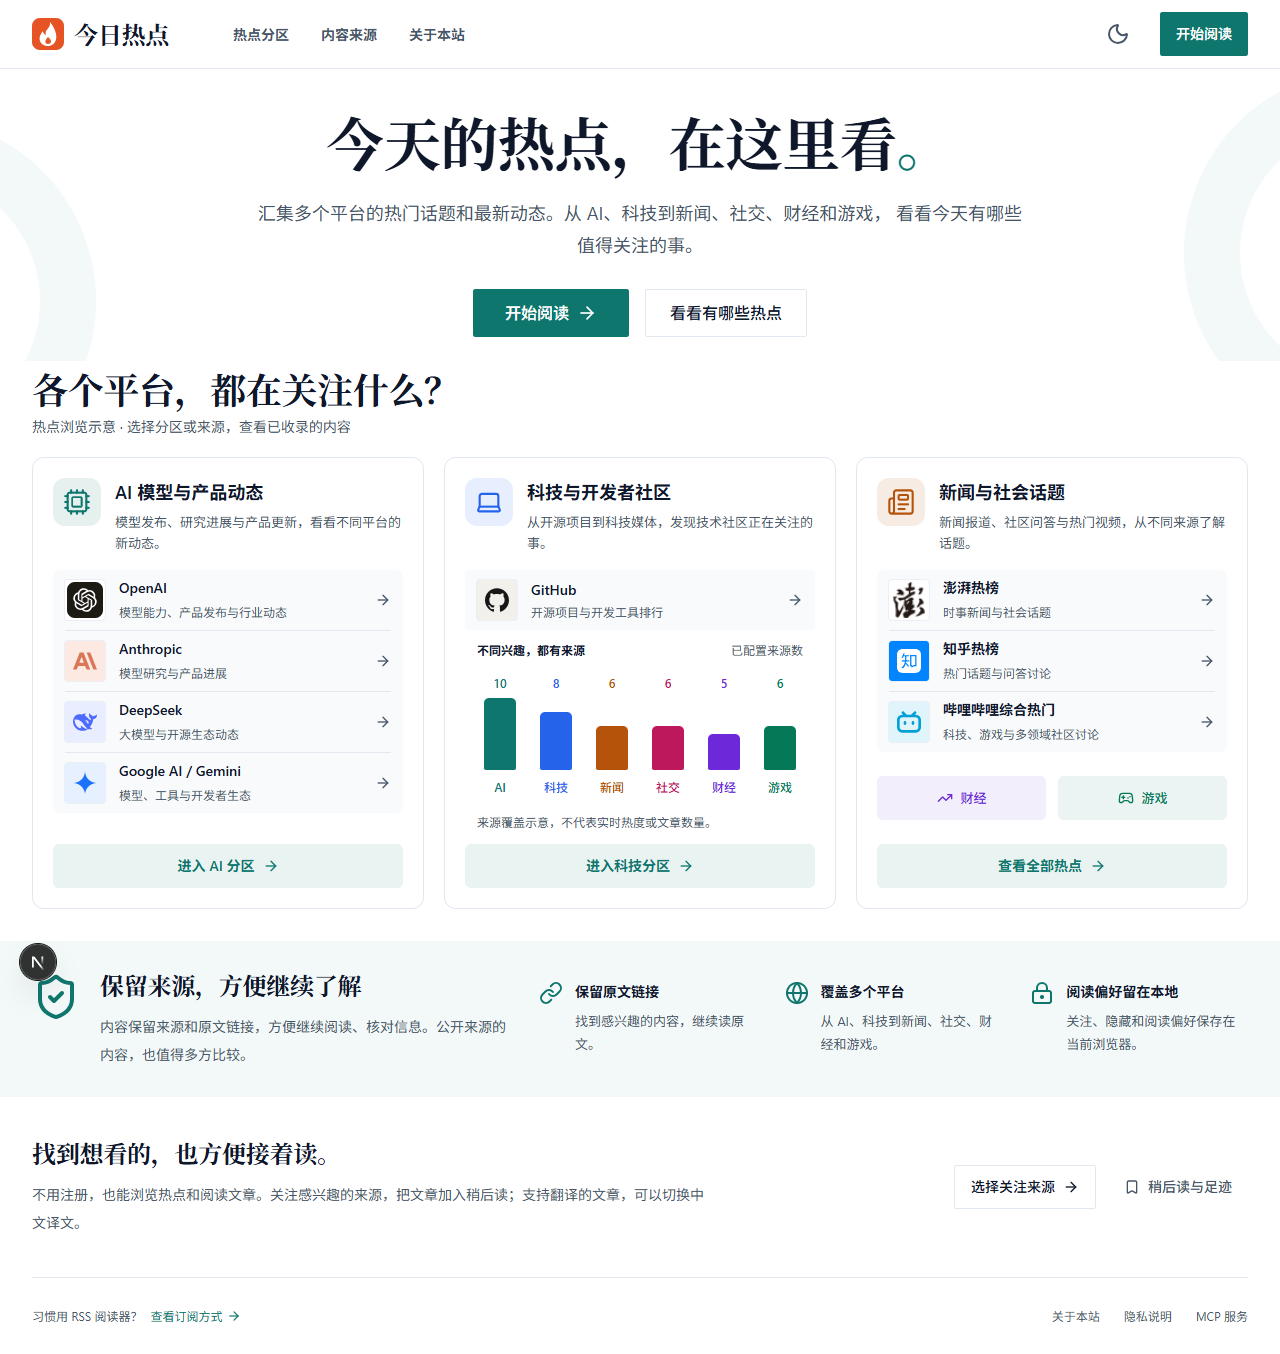
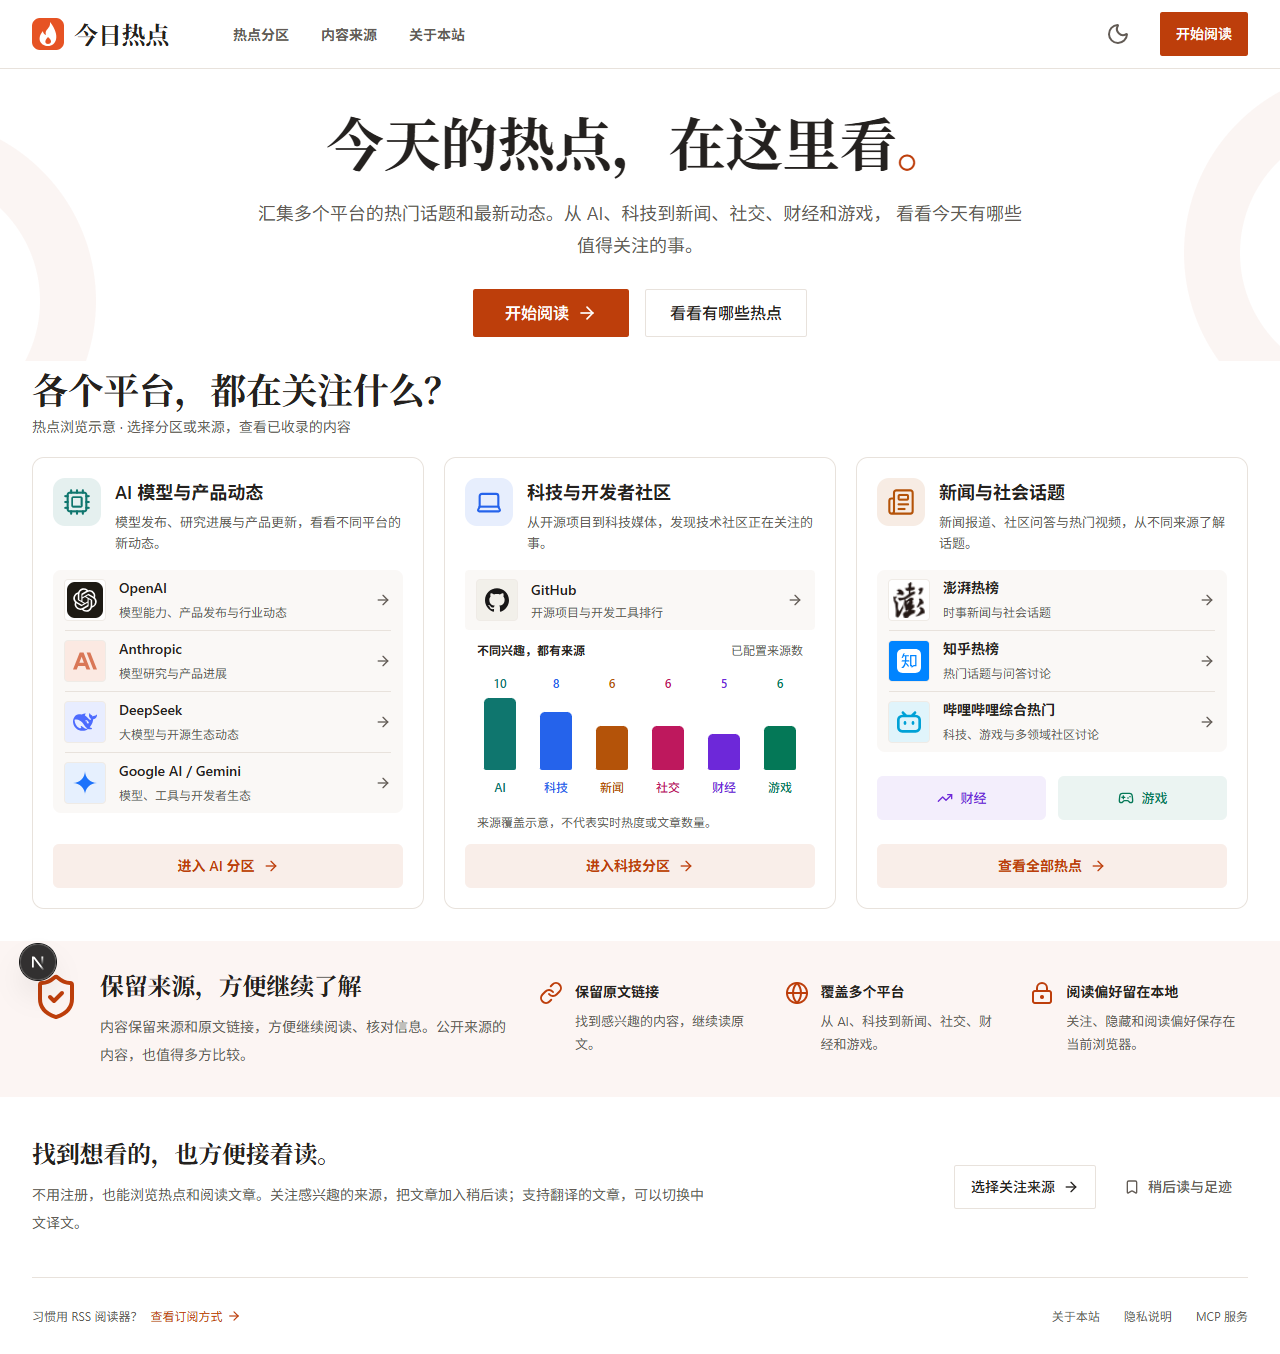
feat(web): apply warm orange theme across light and dark modes

diff --git a/apps/web/app/globals.css b/apps/web/app/globals.css
@@ -40,59 +40,59 @@
     monospace;
 }
 
-/* Modern Swiss Editorial: high-contrast typography, slate hairlines, signature teal */
+/* Editorial typography, warm neutral surfaces, and a flame-orange accent. */
 :root {
   --radius: 0.25rem;
   --background: #ffffff;
-  --foreground: #0f172a;
+  --foreground: #24211f;
   --card: #ffffff;
-  --card-foreground: #0f172a;
+  --card-foreground: #24211f;
   --popover: #ffffff;
-  --popover-foreground: #0f172a;
-  --primary: #0f766e;
+  --popover-foreground: #24211f;
+  --primary: #bd3e0b;
   --primary-foreground: #ffffff;
-  --secondary: #f8fafc;
-  --secondary-foreground: #0f172a;
-  --muted: #f1f5f9;
-  --muted-foreground: #475569;
-  --accent: #ccfbf1;
-  --accent-foreground: #0f766e;
+  --secondary: #faf8f6;
+  --secondary-foreground: #24211f;
+  --muted: #f5f2ef;
+  --muted-foreground: #625b55;
+  --accent: #ffedd5;
+  --accent-foreground: #9a3412;
   --destructive: #b91c1c;
-  --border: #e2e8f0;
-  --input: #cbd5e1;
-  --ring: #0f766e;
+  --border: #e8e2dc;
+  --input: #d6ccc2;
+  --ring: #bd3e0b;
   --strong: var(--border);
-  --row-highlight: #f8fafc;
-  --skeleton: #e2e8f0;
+  --row-highlight: #fff7ed;
+  --skeleton: #e8e2dc;
   --skeleton-highlight: rgb(255 255 255 / 75%);
-  --search-highlight: #0f766e;
+  --search-highlight: #bd3e0b;
   --search-highlight-foreground: #ffffff;
 }
 
 .dark {
-  --background: #090d16;
-  --foreground: #f8fafc;
-  --card: #0f172a;
-  --card-foreground: #f8fafc;
-  --popover: #0f172a;
-  --popover-foreground: #f8fafc;
-  --primary: #2dd4bf;
-  --primary-foreground: #042f2e;
-  --secondary: #131c2e;
-  --secondary-foreground: #f8fafc;
-  --muted: #131c2e;
-  --muted-foreground: #94a3b8;
-  --accent: #134e4a;
-  --accent-foreground: #99f6e4;
+  --background: #141210;
+  --foreground: #f7f4f0;
+  --card: #1d1916;
+  --card-foreground: #f7f4f0;
+  --popover: #1d1916;
+  --popover-foreground: #f7f4f0;
+  --primary: #fb923c;
+  --primary-foreground: #2b1306;
+  --secondary: #26201b;
+  --secondary-foreground: #f7f4f0;
+  --muted: #26201b;
+  --muted-foreground: #b6aaa0;
+  --accent: #432817;
+  --accent-foreground: #fed7aa;
   --destructive: #f87171;
-  --border: #1e293b;
-  --input: #293548;
-  --ring: #2dd4bf;
+  --border: #3b3028;
+  --input: #534235;
+  --ring: #fb923c;
   --strong: var(--border);
-  --row-highlight: #111a2e;
-  --skeleton: #1e293b;
+  --row-highlight: #2c2219;
+  --skeleton: #3b3028;
   --skeleton-highlight: rgb(226 232 240 / 12%);
-  --search-highlight: #0f766e;
+  --search-highlight: #c2410c;
   --search-highlight-foreground: #ffffff;
 }
 

diff --git a/docs/development/official-homepage.md b/docs/development/official-homepage.md
@@ -29,7 +29,7 @@
 
 ## Implementation
 
-采用 Next 16.3.4 / React 19.2.8 / Tailwind 4.3.3；沿用共享 actionStyles、ThemeToggle、SourceIcon、Lucide 及现有中文衬线标题，无新增依赖。白底深色正文、青色主动作不变；图表分区使用青、蓝、琥珀、玫红、紫、绿，深色主题显式映射亮度。UI Skills MCP 的 interface-design 和 baseline-ui 均因传输失败未载入，采用项目内设计及 Impeccable colorize/craft-floor 指导，不声称完成 UI Skills 审查。
+采用 Next 16.3.4 / React 19.2.8 / Tailwind 4.3.3；沿用共享 actionStyles、ThemeToggle、SourceIcon、Lucide 及现有中文衬线标题，无新增依赖。用户后续认为主题色抽象并要求调整，用户已确认采用与火焰标识呼应的暖橙方案：浅色白底、暖深灰文字、深橙主动作；深色炭黑底、亮橙主动作。通过共享 globals.css token 同步按钮、链接、选中状态、焦点、搜索高亮、背景与边框。图表分区继续使用青、蓝、琥珀、玫红、紫、绿，保持分类意义与品牌图标。UI Skills MCP 的 interface-design 和 baseline-ui 均因传输失败未载入，采用项目内设计及 Impeccable colorize/craft-floor 指导，不声称完成 UI Skills 审查。
 
 用户要求官网文案使用 humanizer-zh 调整，已加载该技能。最终文案集中在 [官网首页文案](official-homepage-copy.md)，视觉图依此修订，不将生成图自行添加的日期或上游订阅地址当作产品事实。
 
@@ -44,7 +44,7 @@
 ## Direction contract
 
 - THESIS：让读者先看到平台覆盖与分区入口，再进入真实热点列表。首页不展示虚构新闻和排名。
-- OWN-WORLD：既有白/深蓝底、青色主动作、中文衬线大标题、细分隔线；彩色只表达图表分区及品牌来源。
+- OWN-WORLD：布局与文字保留；后续主题色调整为白/炭黑底、橙色主动作、暖中性色、中文衬线大标题与细分隔线；彩色表达图表分区及品牌来源。
 - STORY：理解今日热点的覆盖范围，选择开始阅读或具体来源，之后可关注、稍后读或使用 RSS。
 - FIRST VIEWPORT：居中主标题和双动作，下方 AI / 科技 / 新闻社交三栏；彩色来源数量图置于科技栏，来源说明带接在三栏下方。
 - FORM：A「热点总览」，保存的 optionId 为 reading-journey；已选图 `.impeccable/mocks/decision/official-homepage-overview-v3.png`。用户追加彩色图表；配置来源数替代图中没有数据意义的代码示意。移动端三栏顺序堆叠。
@@ -60,17 +60,19 @@
 - 生产 Webpack 编译通过；完整类型阶段仍有既有路由额外导出 TS2344（AI、科技、新闻、财经、社交、RSS、out 等），与此前 [构建基线路线图](../roadmaps/impeccable-audit-fixes.md) 一致。本轮迁移的 HomeView 已提取，不新增该问题；没有忽略构建类型错误。
 - 排除生成的 `.next` 路由验证器后，完整 Web 应用源码 TypeScript 校验通过；最终提取视图和 SEO 调整后的 3 文件 / 10 项相关回归通过。
 - 原工作区 node_modules 软链接导致 pnpm 自动安装保护与 Turbopack 根目录拒绝；使用现有 Node CLI 直接运行工具，开发预览采用 Webpack，不修改依赖或构建配置。
+- 后续确认干净环境 GitHub Actions `verify`（run 39582585566）通过：全仓测试、类型检查、发布镜像构建和运行时验证全部成功。此前本地生成类型错误不再作为全局发布阻断结论。
+- 主题色调整仅修改共享颜色 token；复查首页 390/1280/1440px 明暗主题、主按钮默认/hover、分区链接、焦点、正文与页尾对比度，并检查 `/latest` 导航选中颜色与搜索弹窗。更新五张截图；实测主要文字/动作默认与 hover 对比度最低 4.659:1，焦点轮廓可见，无横向溢出、破图或页面异常。颜色微调不增加镜像式单元测试。
 
 已选视觉参考为 A overview-v3，B/C 未采用。页面文字、控件和图表采用真实 HTML，不发布整张截图；现有平台图标继续复用，无新增生成位图。截图保存在 `.impeccable/review/`。
 
 用户明确要求“跳过页面 reviewer 太慢了”，已中断独立页面 reviewer，不再等待视觉裁决；不声称获得 ship 或像素保真门禁通过。comp-led 数值 state/spec/diff 未生成，自动流程没有闭环。现有证据为实际浏览器功能、响应式截图、对比度、源码类型与测试结果。
 
-源码与验收范围自查：路由迁移、刷新链路、来源入口、元数据和空状态均有覆盖。图表默认/hover/focus 文字对比度最低浅色约 4.50:1、深色 6.50:1，焦点轮廓均为 solid；390px 图表单列宽 39px、高度超过 44px。源代码校验通过。生产构建基线继续沿用已有路线图，本轮无新增独立后续路线图。
+源码与验收范围自查：路由迁移、刷新链路、来源入口、元数据和空状态均有覆盖。图表默认/hover/focus 文字对比度最低浅色约 4.50:1、深色 6.50:1，焦点轮廓均为 solid；390px 图表单列宽 39px、高度超过 44px。源代码校验通过。本地生成类型问题沿用已有路线图，干净 CI 的生产镜像与运行时验证已成功；本轮无新增独立后续路线图。
 
 ## Risks
 
 视觉图中的示例必须明确为示例；核心文案、导航、控件最终以可访问的真实 HTML 实现。根页面职责切换需要维护已有用户的快捷阅读入口。
 
-完整生产构建仍受既有基线阻断，不代表可直接部署；不发布生产。用户于续接会话中明确追加“完成后提个pr”，授权通过 GitHub API 创建 PR；不使用网站 UI，不合并。构建问题沿用既有路线图，不在视觉任务中扩展修改其他分区。
+本地残留生成类型曾阻断检查，但后续干净 CI 已通过类型、发布镜像与运行时验证；仍不在本任务中合并或主动发布生产。用户于续接会话中明确追加“完成后提个pr”，授权通过 GitHub API 创建及更新 PR；不使用网站 UI。本地构建问题沿用既有路线图，不在视觉任务中扩展修改其他分区。
 
 交付：`feat/official-homepage` → `master`，[草稿 PR #51](https://github.com/ljh12138164/rss-site/pull/51)。本轮保留既有未选视觉稿，不纳入该 PR。提交钩子的 pnpm 运行因跨工作区依赖软链接失败，已直接执行等价的 `biome check --write --staged --no-errors-on-unmatched` 并通过；仅该次提交绕过包装钩子，没有禁用检查或改动持久 Git 配置。

diff --git a/HERMES.md b/HERMES.md
@@ -8,6 +8,7 @@
 - 最新定位：突出“今日热点”，主标题“今天的热点，在这里看。”；热点范围、平台和分区入口优先，阅读工具在下方，RSS 只在页尾。
 - 已选 `.impeccable/mocks/decision/official-homepage-overview-v3.png`，文案以 `docs/development/official-homepage-copy.md` 为准。335 项测试和浏览器明暗/桌面手机检查通过；Webpack 编译成功，完整类型阶段受既有路由额外导出阻断（沿用审计修复路线图）。用户要求跳过页面 reviewer，已中断；用户明确要求通过 API 创建 PR，交付分支，不部署或合并。
 - 已推送 `feat/official-homepage`，草稿 PR https://github.com/ljh12138164/rss-site/pull/51 ，目标 `master`。下一步处理已有构建基线并查看 CI 后再决定合并；本地 3015 Webpack 预览保留。
+- 用户继续要求更换主题色，本轮采用火焰暖橙与暖中性色，明暗主题同步覆盖首页和阅读页，保留彩色图表。先前提交的干净 CI run 39582585566 已通过测试、类型、发布镜像及运行时验证；本地残留类型错误不再代表全局构建阻断。继续跳过页面 reviewer，更新同一 PR。
 
 ## 2026-10-20 Impeccable 审计修复
 
